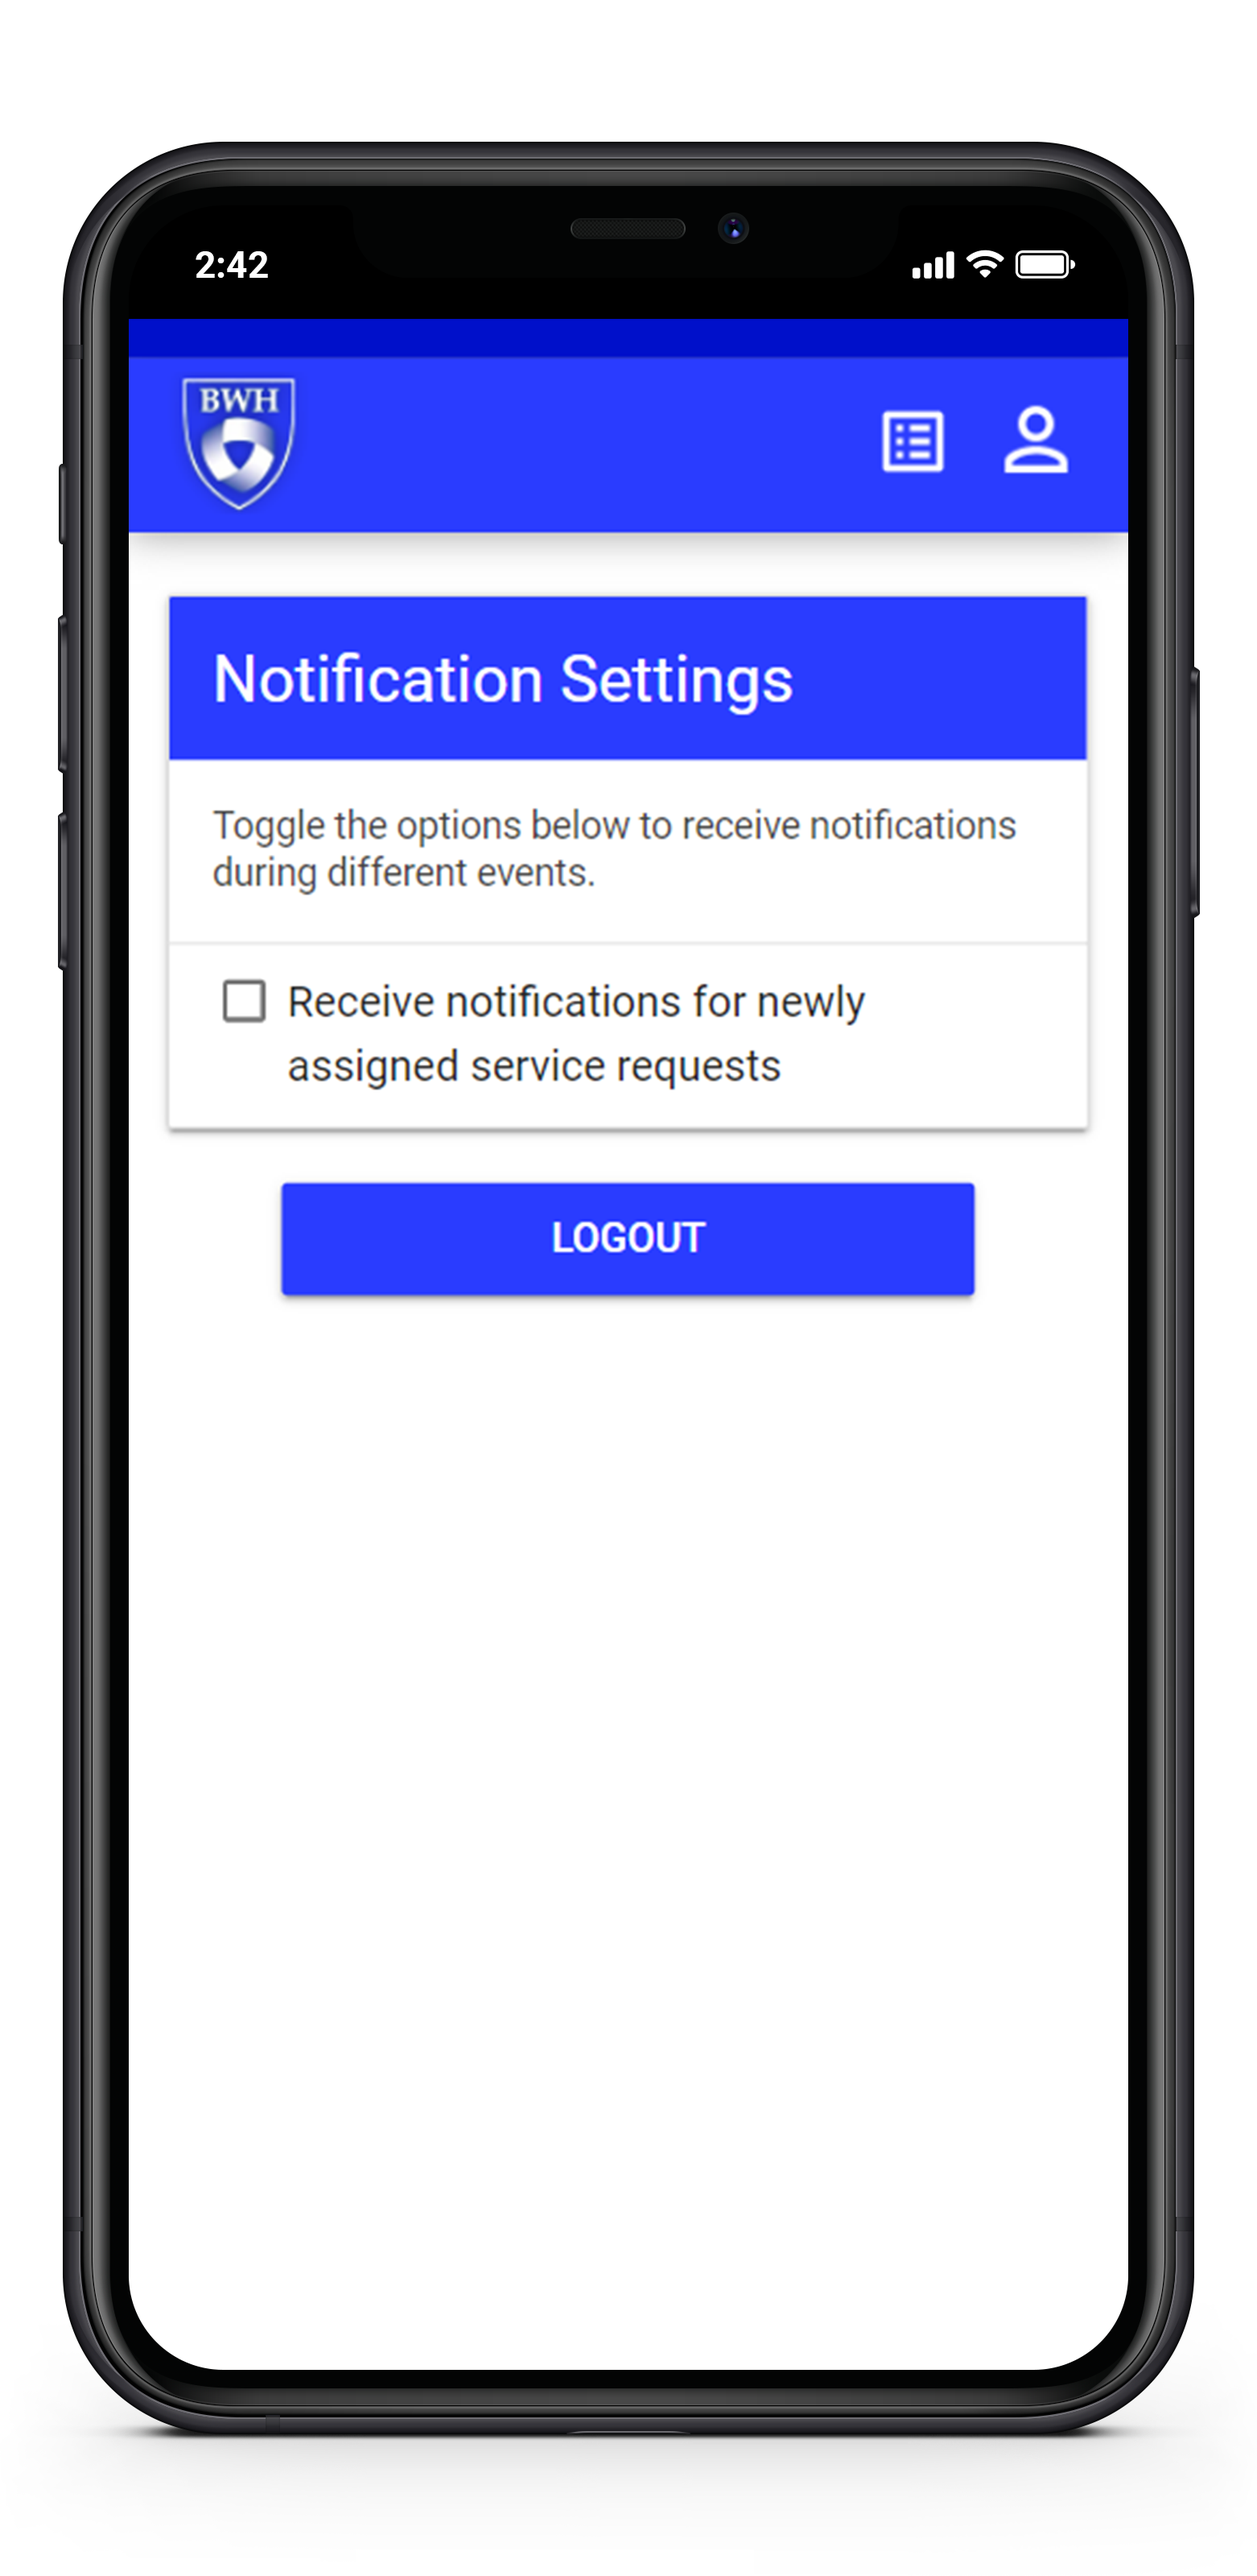
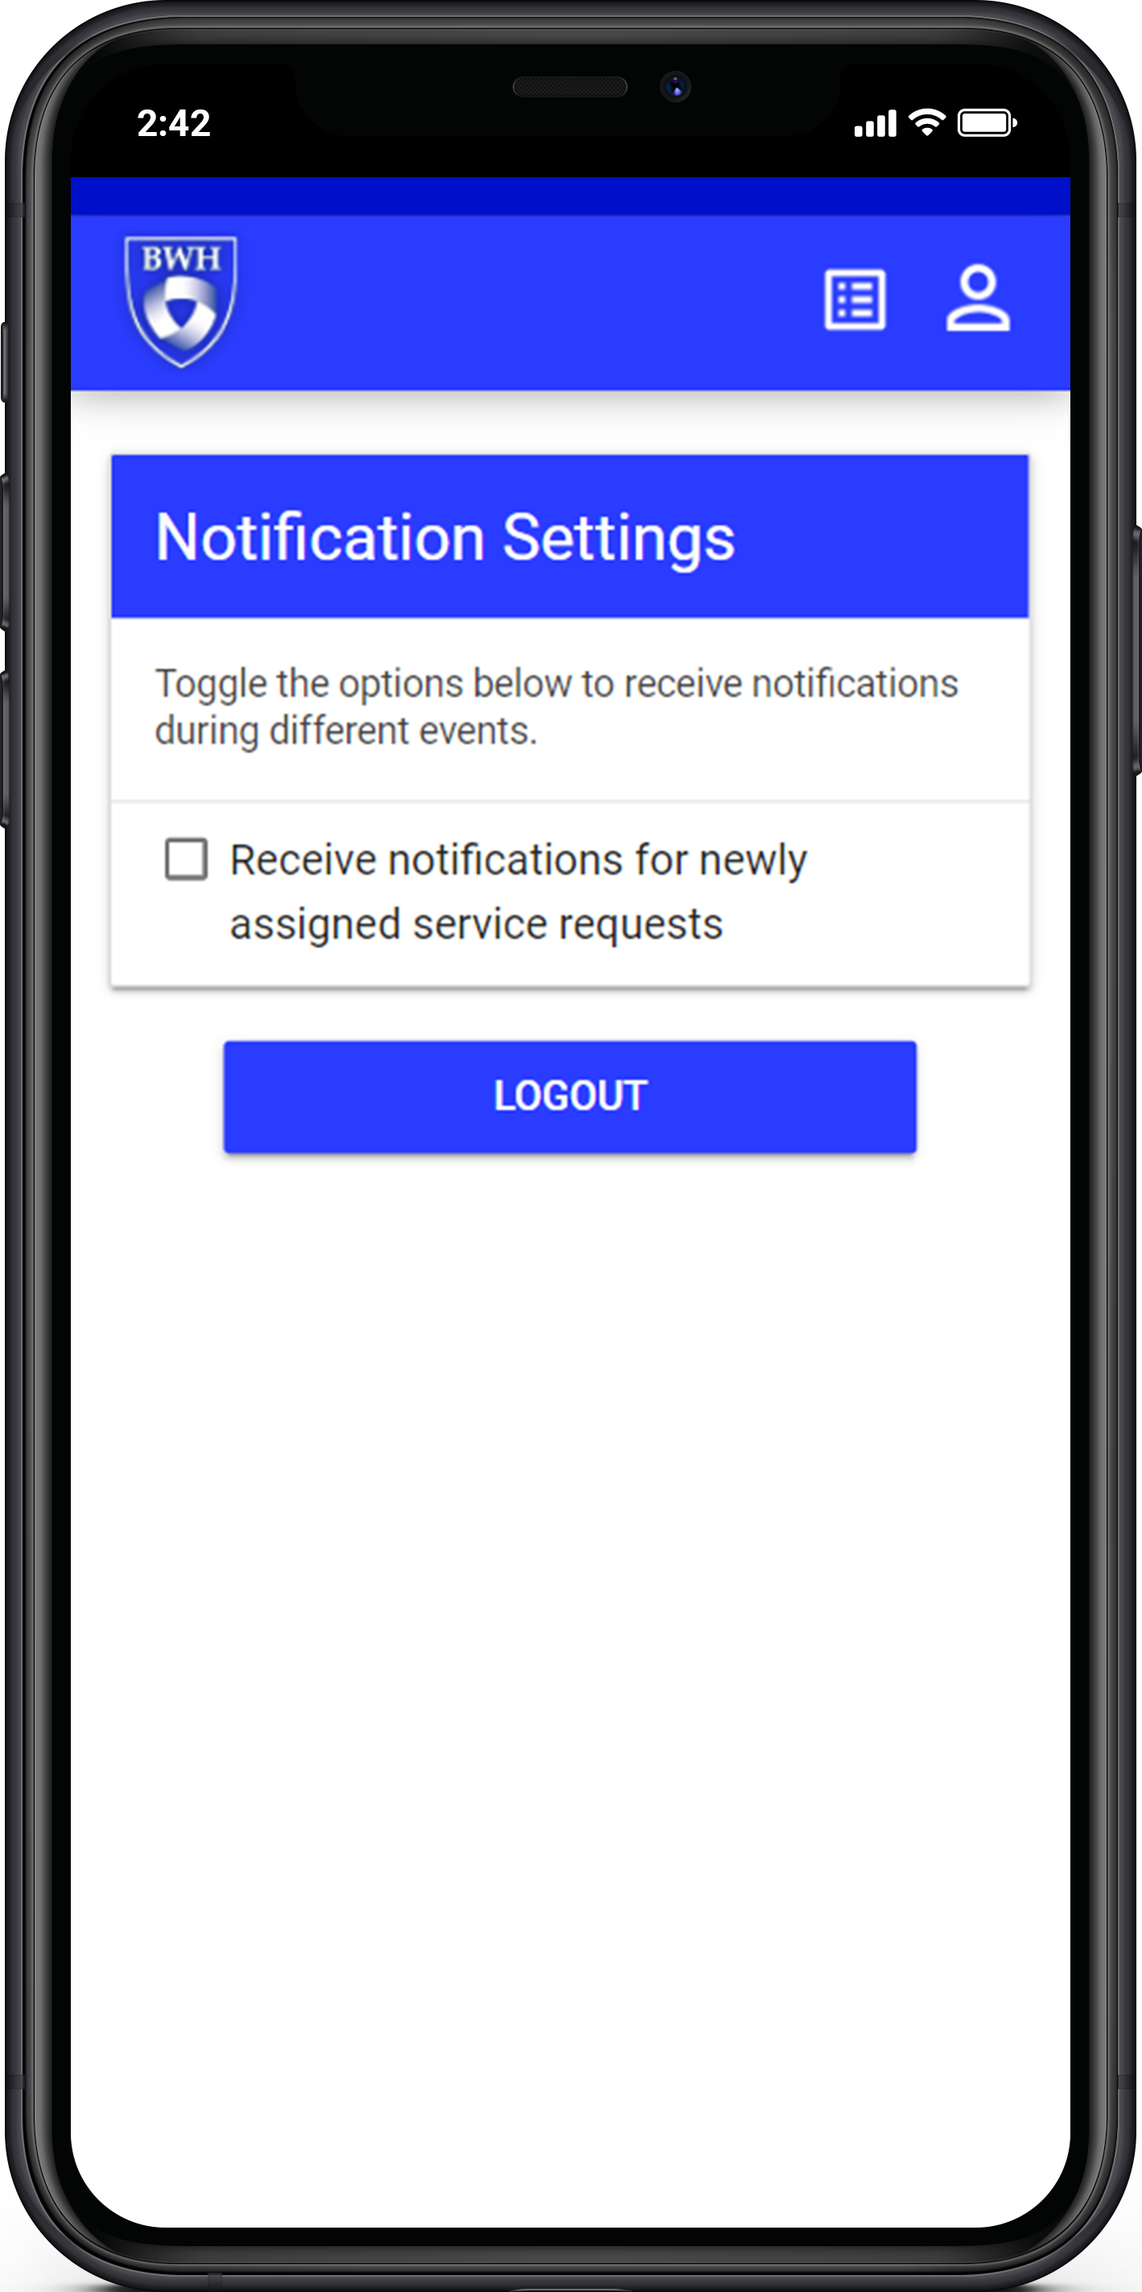
Improve mobile mockup images

diff --git a/src/app/page-components/development-carousel/development-carousel.component.scss b/src/app/page-components/development-carousel/development-carousel.component.scss
@@ -42,12 +42,16 @@ $width-small: 300px; // small mock width
 .div-mobile-carousel img {
   position: absolute;
   transition: all 0.5s;
+  box-sizing: border-box;
+  border-radius: 50px;
+  filter: drop-shadow(0 0 5px #4a4a4a);
 }
 
 .div-mobile-carousel .img-front {
   z-index: 10;
   left: calc((#{$width-carousel} - #{$width-large}) / 2);
   width: $width-large;
+  padding: 0 15px;
 }
 
 .div-mobile-carousel .img-back {
@@ -60,6 +64,7 @@ $width-small: 300px; // small mock width
 .div-mobile-carousel .img-side {
   z-index: 5;
   width: $width-medium;
+  padding: 0 15px;
 }
 
 .div-mobile-carousel .img-left {
